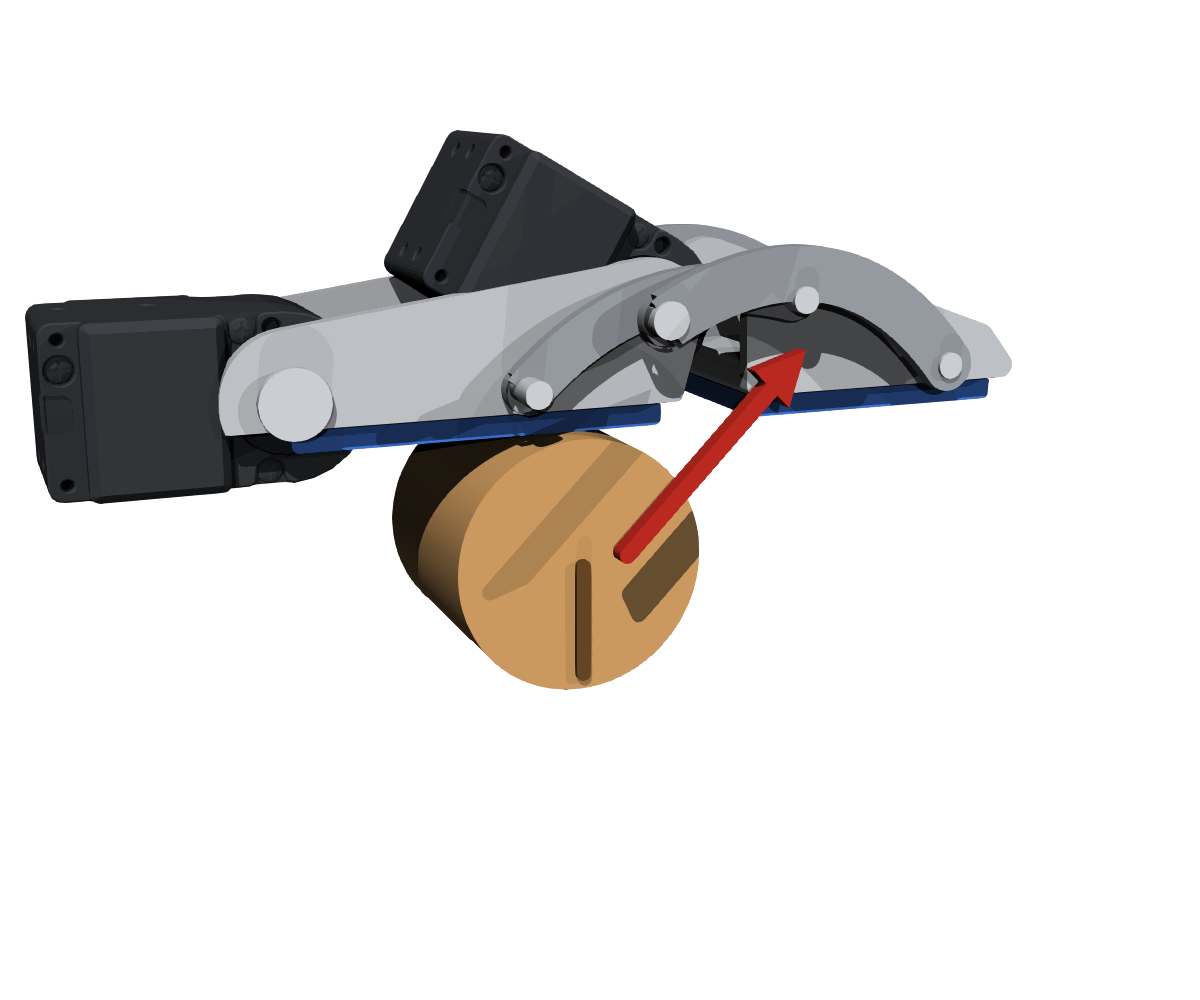
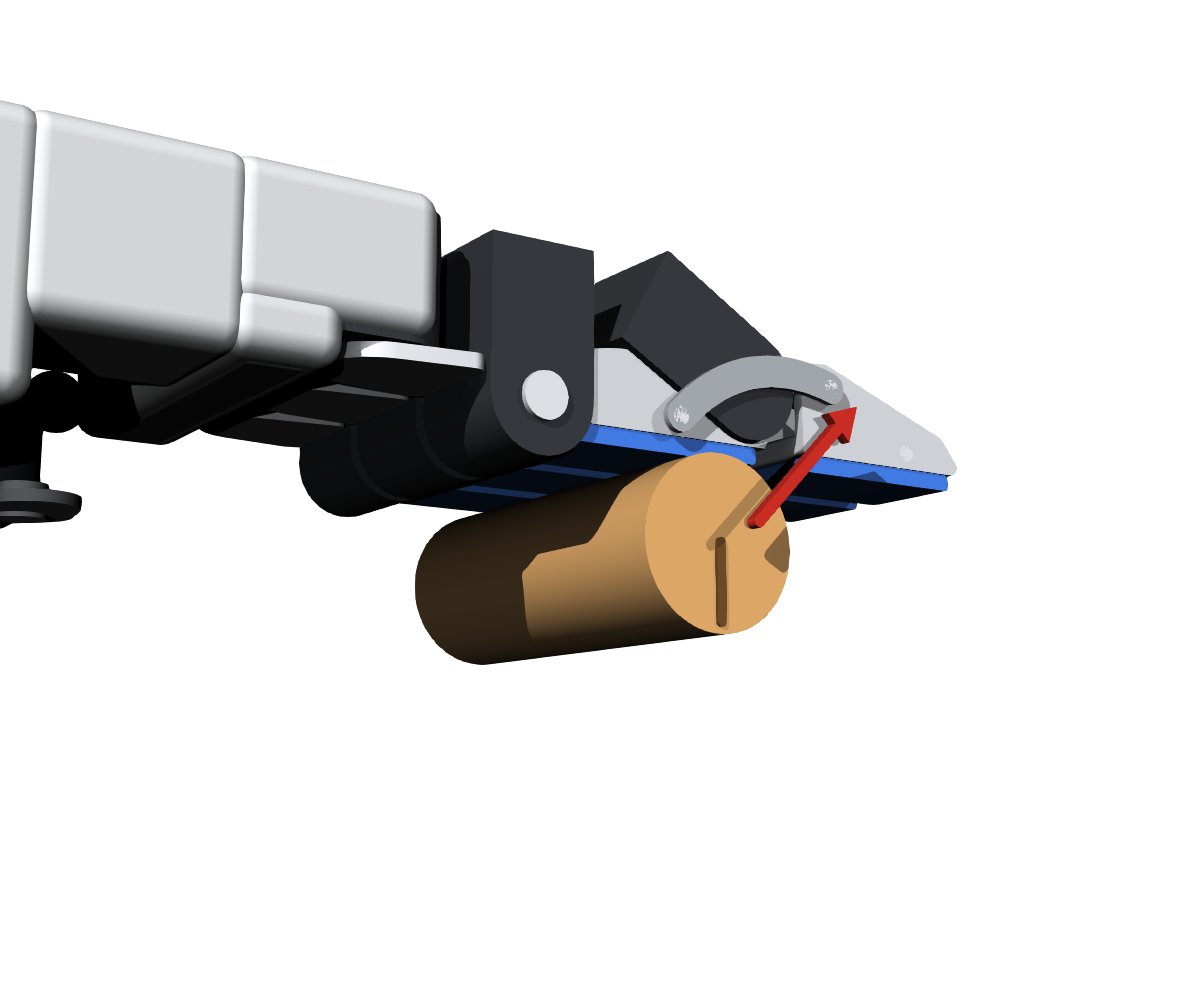
Task renders on the hand's URDF geometry: index, middle and ring closed at the frame's flexion, the object spanning them
render3d.render_on_hand draws the task frames with the USD's visuals (load_hand.py) instead of the
separately drawn finger; render3d.py and render_task_times.py use it. add_finger stays for render_hands.py.
A pulled-out cylinder that has left the hand is no longer drawn metres away.

Changed region(s): [[0.0, 0.093, 0.8633, 0.713]]

diff --git a/sim/drake/render3d.py b/sim/drake/render3d.py
@@ -1,12 +1,16 @@
 """3D renders of the three Study 3 tasks on hand O at the states Drake simulated (logs/task_snapshots.json, written by
 render_tasks.py), with Drake's VTK renderer.
 
-The finger is hand O's own geometry (finger_geometry): pivots A, A', B, B', the pads and their faces, the PIP servo at
-A' tilted by pip_servo_tilt_deg (the parametric model's placement, core/morphology/code_hand/model.py). Phalanx side
-plates are the rounded hulls around their pivots, the four-bar links are paired plates with pins, and the servos are
-the X330 mesh (assets/x330.stl, read once from the CoDe Hand CAD). The cylinder, or the dial on its axle, is posed from
-the simulation; a red arrow gives the load. Geometry is written as OBJ files in logs/render3d/ and anchored in the
-world.
+The hand is the USD's geometry: the plain URDF with the description's drawing-only visuals (XM335 servos as the
+design's D-profile, links laid out by the packaging layers, the palm housing; sim/isaaclab make_assets.py --visuals),
+loaded by load_hand.py. The planar frame (x along the finger from the MCP-FE axis, z dorsal) is the middle finger's;
+index, middle and ring are closed at the frame's flexion through the description's four_bar table (the simulation
+divides the load over three fingers, as Isaac Lab's hand does), MCP FE and AA at 0, the thumb at its zeros. The
+cylinder, or the dial on its axle, spans the three fingers and is posed from the simulation; a red arrow gives the
+load. Its geometry is written as OBJ files in logs/render3d/ and anchored in the hand frame.
+
+add_finger() still draws one finger from its parameter file alone (pivots, pads, the X330 mesh, bowed link plates),
+for render_hands.py.
 
     uv run python render3d.py   ->  logs/render_<task><frame>.png
 """
@@ -227,6 +231,9 @@ def servo_tris(centre_xz, tilt_deg, servo):
 
 
 GHOST = [0.50, 0.52, 0.56, 1.0]
+GONE_MM = 40.0
+"""A cylinder farther than this from its ghost has left the grasp: it is not drawn, and its path arrow stops here (a
+pulled-out cylinder flies metres away, out of view, and would stretch the shadow map)."""
 
 
 def dashed_ring(sc, centre, r, y, rgba, n=30):
@@ -302,14 +309,19 @@ def add_finger(sc: "Scene", hand: str, B, q: float) -> None:
 
 
 
-def build(task: str, st: dict, snap: dict, folder: Path, ghost=None, turn_sign=1.0) -> Scene:
+def build(task: str, st: dict, snap: dict, folder: Path, ghost=None, turn_sign=1.0, finger: bool = True,
+          span=(-14.0, 14.0)) -> Scene:
+    """The task frame's scene in the finger's linkage plane (mm): the object (the cylinder or the dial on its axle),
+    the load arrow and the ghost outline, and with ``finger`` the finger drawn by ``add_finger``. ``span``: the
+    object's extent across the finger (y, mm; the camera looks from -y)."""
     sc = Scene(folder)
-    add_finger(sc, "O", st["distal"][:2], st["distal"][2])
+    if finger:
+        add_finger(sc, "O", st["distal"][:2], st["distal"][2])
 
     # the object
     c = np.array(st["centre"])
     rho = snap[task].get("rho_mm", snap["rho_mm"])
-    y_lo, y_hi = -14.0, 14.0  # a little longer than the finger is wide
+    y_lo, y_hi = span
     if task == "dial":
         sc.cylinder(c, y_lo, y_hi, rho, KNOB, n=96)
         for k in range(36):  # knurl
@@ -333,11 +345,17 @@ def build(task: str, st: dict, snap: dict, folder: Path, ghost=None, turn_sign=1
             arc_arrow(sc, axis, rho + 8.0, -math.pi / 2, -math.pi / 2 + turn_sign * math.radians(55), y_lo - 1.0,
                       LOAD)
     else:
+        gone = False
         if ghost is not None:  # where the cylinder was: a dashed outline and its path
             g0 = np.asarray(ghost, float)
             dashed_ring(sc, g0, rho, y_lo - 0.6, GHOST)
-            if np.linalg.norm(c - g0) > 3.0:
-                arrow(sc, g0, c, y_lo - 1.2, GHOST, half_width=0.55, head_len=2.8, head_half=1.6)
+            moved = np.linalg.norm(c - g0)
+            gone = moved > GONE_MM  # out of the hand and out of view: only its path's start, clipped
+            if moved > 3.0:
+                end = g0 + (c - g0) * min(1.0, GONE_MM / moved)
+                arrow(sc, g0, end, y_lo - 1.2, GHOST, half_width=0.55, head_len=2.8, head_half=1.6)
+        if gone:
+            return sc
         sc.cylinder(c, y_lo, y_hi, rho, OBJECT, n=96)
         mark = c + rot(-st["spin"], np.array([0.0, -(rho - 2.0)]))
         sc.bar(c, mark, 0.9, y_lo - 0.6, y_lo + 1.0, [0.45, 0.30, 0.16, 1.0])
@@ -399,6 +417,88 @@ def render(sc: Scene, out: Path, target_xz, dist=0.21, az_deg=-22.0, el_deg=14.0
     print(out)
 
 
+TASK_FINGERS = ("index", "middle", "ring")
+"""The fingers that carry the task: the planar simulation divides the load over three (two_pad_drake.FINGERS), as
+Isaac Lab's hand does with index, middle and ring on one cylinder."""
+TASK_REF = "middle"
+"""The finger whose linkage plane the planar frame maps to (the middle one, so the object spans the three evenly)."""
+TASK_CAMERA = {"target_mm": (28.0, -10.0, -10.0), "dist": 0.30, "az_deg": -34.0, "el_deg": -10.0, "fov_deg": 33.0}
+"""Task frames on the hand: the point looked at in the reference finger's planar frame (x along, y lateral, z dorsal,
+mm), the camera's distance [m], azimuth from -y toward +x and elevation [deg] and field of view (render()'s
+convention): from the ring finger's side and a little below, so the three fingers' pads and the object show."""
+THUMB_NEUTRAL = {"thumb_ro": 0.0, "thumb_raa": 0.0, "thumb_mcp": 0.0, "thumb_ip": 0.0}
+"""The thumb out of the way at its joints' zeros [deg]: it lies beside the index finger, its pad toward +y."""
+
+
+def hand_frame(hand: str = "O"):
+    """The hand's URDF and description, and the planar frame's origin in the hand frame (mm): the reference finger's
+    MCP-FE axis, x along the proximal at MCP 0, z dorsal (the hand frame's axes), with each task finger's lateral
+    offset from it (mm)."""
+    import load_hand as LH
+
+    urdf, description = LH.paths(hand)
+    desc = json.loads(description.read_text())
+    joints = {j["name"]: j for j in desc["joints"]}
+    origin = 1e3 * np.asarray(joints[f"{TASK_REF}_fe"]["anchor"], float)
+    offsets = {f: 1e3 * joints[f"{f}_fe"]["anchor"][1] - origin[1] for f in TASK_FINGERS}
+    return urdf, description, desc, origin, offsets
+
+
+def task_span(hand: str = "O", margin_mm: float = 4.5) -> tuple[float, float]:
+    """The object's extent across the task fingers (y in the reference finger's frame, mm): their pads and a margin."""
+    _, _, desc, _, offsets = hand_frame(hand)
+    hw = desc["pads"]["width_mm"] / 2 + margin_mm
+    return min(offsets.values()) - hw, max(offsets.values()) + hw
+
+
+def render_on_hand(sc: Scene, out: Path, q: float, hand: str = "O", camera: dict | None = None,
+                   size=(W, H)) -> Path:
+    """The scene (in the reference finger's planar frame) with the hand's URDF geometry (the USD's visuals, through
+    load_hand.py), palm down in the hand frame: MCP FE and AA at 0, the task fingers' four-bars closed at flexion q
+    [rad] from the description's ``four_bar`` table, the other fingers' at 0, the thumb at ``THUMB_NEUTRAL``."""
+    from PIL import Image
+    from pydrake.geometry import (ClippingRange, ColorRenderCamera, GeometryInstance, Mesh, PerceptionProperties,
+                                  RenderCameraCore, RenderLabel, Rgba)
+    from pydrake.math import RigidTransform, RotationMatrix
+    from pydrake.systems.sensors import CameraInfo
+
+    import load_hand as LH
+
+    urdf, description, desc, origin, _ = hand_frame(hand)
+    diagram, plant, sg, model, desc, _ = LH.load_hand(urdf, description, renderer=True, gravity=False,
+                                                     pose=(0.0, 0.0, 0.0, 0.0, 0.0, 0.0))
+    ctx = diagram.CreateDefaultContext()
+    pctx, sctx = plant.GetMyMutableContextFromRoot(ctx), sg.GetMyMutableContextFromRoot(ctx)
+    LH.set_pose(plant, pctx, model, desc, 0.0, 0.0, THUMB_NEUTRAL)
+    for digit in TASK_FINGERS:
+        for name, value in LH.table(desc, digit, math.degrees(q)).items():
+            plant.GetJointByName(name, model).set_angle(pctx, value)
+    X = RigidTransform(1e-3 * origin)
+    for k, (path, rgba) in enumerate(sc.items):
+        gi = GeometryInstance(X, Mesh(str(path), 1.0), f"task_{k}")
+        pp = PerceptionProperties()
+        pp.AddProperty("phong", "diffuse", Rgba(*rgba))
+        pp.AddProperty("label", "id", RenderLabel(1000 + k))
+        gi.set_perception_properties(pp)
+        sg.RegisterGeometry(sctx, plant.get_source_id(), sg.world_frame_id(), gi)
+
+    c = {**TASK_CAMERA, **(camera or {})}
+    target = 1e-3 * (origin + np.asarray(c["target_mm"], float))
+    az, el = math.radians(c["az_deg"]), math.radians(c["el_deg"])
+    eye = target + c["dist"] * np.array([math.sin(az) * math.cos(el), -math.cos(az) * math.cos(el), math.sin(el)])
+    fwd = (target - eye) / np.linalg.norm(target - eye)
+    right = np.cross(fwd, [0.0, 0.0, 1.0])
+    right /= np.linalg.norm(right)
+    down = np.cross(fwd, right)
+    core = RenderCameraCore("vtk", CameraInfo(size[0], size[1], math.radians(c["fov_deg"])), ClippingRange(0.01, 3.0),
+                            RigidTransform())
+    img = sg.get_query_output_port().Eval(sctx).RenderColorImage(
+        ColorRenderCamera(core, False), sg.world_frame_id(), RigidTransform(RotationMatrix(np.column_stack([right, down, fwd])), eye))
+    Image.fromarray(np.array(img.data)[:, :, :3]).save(out)
+    print(out)
+    return out
+
+
 def main():
     snap = json.loads((T.OUT / "task_snapshots.json").read_text())
     for task in ("hold", "acquire", "dial"):
@@ -406,8 +506,8 @@ def main():
             frames = snap[task]["frames"]
             ghost = {("acquire", 2): frames[0]["centre"], ("hold", 2): frames[1]["centre"]}.get((task, i))
             sc = build(task, st, snap, T.OUT / "render3d" / f"{task}{i}", ghost=ghost,
-                       turn_sign=math.copysign(1.0, frames[-1]["spin"]))
-            render(sc, T.OUT / f"render_{task}{i}.png", target_xz=(40.0, -17.0), fov_deg=33.0)
+                       turn_sign=math.copysign(1.0, frames[-1]["spin"]), finger=False, span=task_span())
+            render_on_hand(sc, T.OUT / f"render_{task}{i}.png", st["distal"][2])
 
 
 if __name__ == "__main__":

diff --git a/sim/drake/render_task_times.py b/sim/drake/render_task_times.py
@@ -1,0 +1,148 @@
+"""The three Drake tasks on hand O (pad friction 1.3) rendered at t = 0, 1 and 2 s after each task starts:
+grasp pull-out (t = 0 when the -z load ramp starts on the settled grasp), grasp acquisition (t = 0 when the open
+finger starts closing) and the 30-degree dial (t = 0 when the finger starts closing). Same placements and settings as
+render_tasks.py; drawn on the hand's URDF geometry (render3d.render_on_hand); one row per task in logs/task_times.png.
+
+    uv run python render_task_times.py [--times 0 1 2]
+"""
+import argparse
+import json
+import math
+
+import numpy as np
+
+import render3d as R3
+import render_tasks as RT
+import two_pad_drake as T
+
+
+def steps(t_s: float) -> int:
+    return int(round(t_s / T.DT_ENV))
+
+
+def pullout(times):
+    geom, qs, th, q_cmd, theta_cmd, k, d, x0 = RT.setup()
+    s1 = T.Stage(RT.HAND, RT.MU, RT.RHO, "point", 1e-3, True, k, d)
+    s1.plant.GetJointByName("slide_x").set_translation(s1.pctx, x0[0])
+    s1.plant.GetJointByName("slide_z").set_translation(s1.pctx, x0[1])
+    s1.ctrl.hold_at = np.array([x0[0], x0[1], 0.0])
+    s1.sim.Initialize()
+    for i in range(70):
+        s1.ctrl.theta_cmd = theta_cmd * min(1.0, (i + 1) / 40)
+        s1.step()
+    state = s1.plant.GetPositionsAndVelocities(s1.pctx).copy()
+    s = T.Stage(RT.HAND, RT.MU, RT.RHO, "point", 1e-3, False, k, d)
+    s.plant.SetPositionsAndVelocities(s.pctx, state)
+    s.ctrl.theta_cmd = theta_cmd
+    s.sim.Initialize()
+    for _ in range(120):
+        s.step()
+    direction = np.array(T.DIRECTIONS["-z"])
+    want = {steps(t): t for t in times}
+    frames, load = {}, np.zeros(2)
+    for i in range(max(want) + 1):
+        if i in want:
+            frames[want[i]] = RT.frame(s, load)
+        load = T.RATE_N_S * T.DT_ENV * (i + 1) * direction
+        s.ctrl.load = load
+        s.step()
+    return frames
+
+
+def acquire(times):
+    geom, qs, th, q_cmd, theta_cmd, k, d, x0 = RT.setup()
+    T.SPIN_DAMPING = 2.0
+    s = T.Stage(RT.HAND, RT.MU, RT.RHO, "point", 1e-3, False, k, d)
+    start = np.array([x0[0] + 6e-3, x0[1]])
+    s.plant.GetJointByName("slide_x").set_translation(s.pctx, start[0])
+    s.plant.GetJointByName("slide_z").set_translation(s.pctx, start[1])
+    load = np.array([1.5, 1.5]) / T.FINGERS
+    s.ctrl.load = load
+    s.sim.Initialize()
+    want = {steps(t): t for t in times}
+    frames = {}
+    for i in range(max(want) + 1):
+        if i in want:
+            frames[want[i]] = RT.frame(s, load)
+        s.ctrl.theta_cmd = theta_cmd * min(1.0, (i + 1) / 60)
+        s.step()
+    T.SPIN_DAMPING = 0.0
+    return frames
+
+
+def dial(times):
+    g = [x for x in json.loads((T.OUT / "grasps_r10.json").read_text())["grasps"] if x["q0_deg"] == RT.DIAL_Q0][0]
+    geom, qs, th, q_cmd, theta_cmd, k, d, x0 = RT.setup(g, RT.DIAL_RHO)
+    T.DIAL_Z_STIFFNESS, T.DIAL_BRAKE_NM = 300.0, 0.0
+    s = T.Stage(RT.HAND, RT.MU, RT.DIAL_RHO, "point", 1e-3, "xz", k, d)
+    centre = np.array([x0[0], x0[1] - 3e-3])
+    s.plant.GetJointByName("slide_x").set_translation(s.pctx, centre[0])
+    s.plant.GetJointByName("slide_z").set_translation(s.pctx, centre[1])
+    s.ctrl.hold_at = np.array([centre[0], centre[1], 0.0])
+    s.sim.Initialize()
+    q1 = min(q_cmd + math.radians(45.0), math.radians(120.0))
+    want = {steps(t): t for t in times}
+    frames = {}
+    for i in range(max(want) + 1):
+        if i in want:
+            frames[want[i]] = RT.frame(s)
+        q = q1 * min(1.0, (i + 1) / 90)
+        s.ctrl.theta_cmd = float(np.interp(q, qs, th))
+        s.step()
+    T.DIAL_Z_STIFFNESS = 0.0
+    return frames, [1e3 * centre[0], 1e3 * centre[1]]
+
+
+def main() -> int:
+    p = argparse.ArgumentParser()
+    p.add_argument("--times", type=float, nargs="+", default=[0.0, 1.0, 2.0])
+    a = p.parse_args()
+    geom = T.finger_geometry(RT.HAND)
+    snap = {"hand": RT.HAND, "mu": RT.MU, "rho_mm": RT.RHO, "q0_deg": RT.G["q0_deg"], "pads": geom["pads"],
+            "b_mm": geom["b"].tolist()}
+    tasks = {"hold": pullout(a.times), "acquire": acquire(a.times)}
+    dframes, axis = dial(a.times)
+    tasks["dial"] = dframes
+    snap["dial"] = {"axis": axis, "rho_mm": RT.DIAL_RHO, "frames": [dframes[t] for t in a.times]}
+    for k in ("hold", "acquire"):
+        snap[k] = {"frames": [tasks[k][t] for t in a.times]}
+    (T.OUT / "task_times.json").write_text(json.dumps({"times_s": a.times, **snap}, indent=1))
+
+    paths = {}
+    for task in ("hold", "acquire", "dial"):
+        frames = snap[task]["frames"]
+        for i, (t, st) in enumerate(zip(a.times, frames)):
+            ghost = frames[0]["centre"] if i > 0 and task in ("hold", "acquire") else None
+            sc = R3.build(task, st, snap, T.OUT / "render3d" / f"t_{task}{i}", ghost=ghost,
+                          turn_sign=math.copysign(1.0, frames[-1]["spin"] or 1.0), finger=False, span=R3.task_span())
+            out = T.OUT / f"render_t_{task}_{t:g}s.png"
+            R3.render_on_hand(sc, out, st["distal"][2])
+            paths[(task, i)] = out
+
+    from PIL import Image
+    import matplotlib
+    matplotlib.use("Agg")
+    import matplotlib.pyplot as plt
+    names = {"hold": "grasp pull-out\n(−z load from t = 0)", "acquire": "grasp acquisition\n(closing from t = 0)",
+             "dial": "dial\n(closing from t = 0)"}
+    fig, axes = plt.subplots(3, len(a.times), figsize=(3.2 * len(a.times), 8.0))
+    for r, task in enumerate(("hold", "acquire", "dial")):
+        for c, t in enumerate(a.times):
+            ax = axes[r, c]
+            ax.imshow(np.asarray(Image.open(paths[(task, c)]).convert("RGB")))
+            ax.axis("off")
+            st = snap[task]["frames"][c]
+            load = np.linalg.norm(st.get("load_n", [0, 0]))
+            extra = f"load {load:.1f} N" if task == "hold" else (f"spin {math.degrees(st['spin']):.0f}°" if task == "dial" else "")
+            ax.set_title(f"t = {t:g} s" + (f"\n{extra}" if extra else ""), fontsize=9)
+        axes[r, 0].text(-0.04, 0.5, names[task], transform=axes[r, 0].transAxes, rotation=90, ha="right",
+                        va="center", fontsize=9)
+    fig.tight_layout()
+    out = T.OUT / "task_times.png"
+    fig.savefig(out, dpi=150)
+    print(out)
+    return 0
+
+
+if __name__ == "__main__":
+    raise SystemExit(main())
